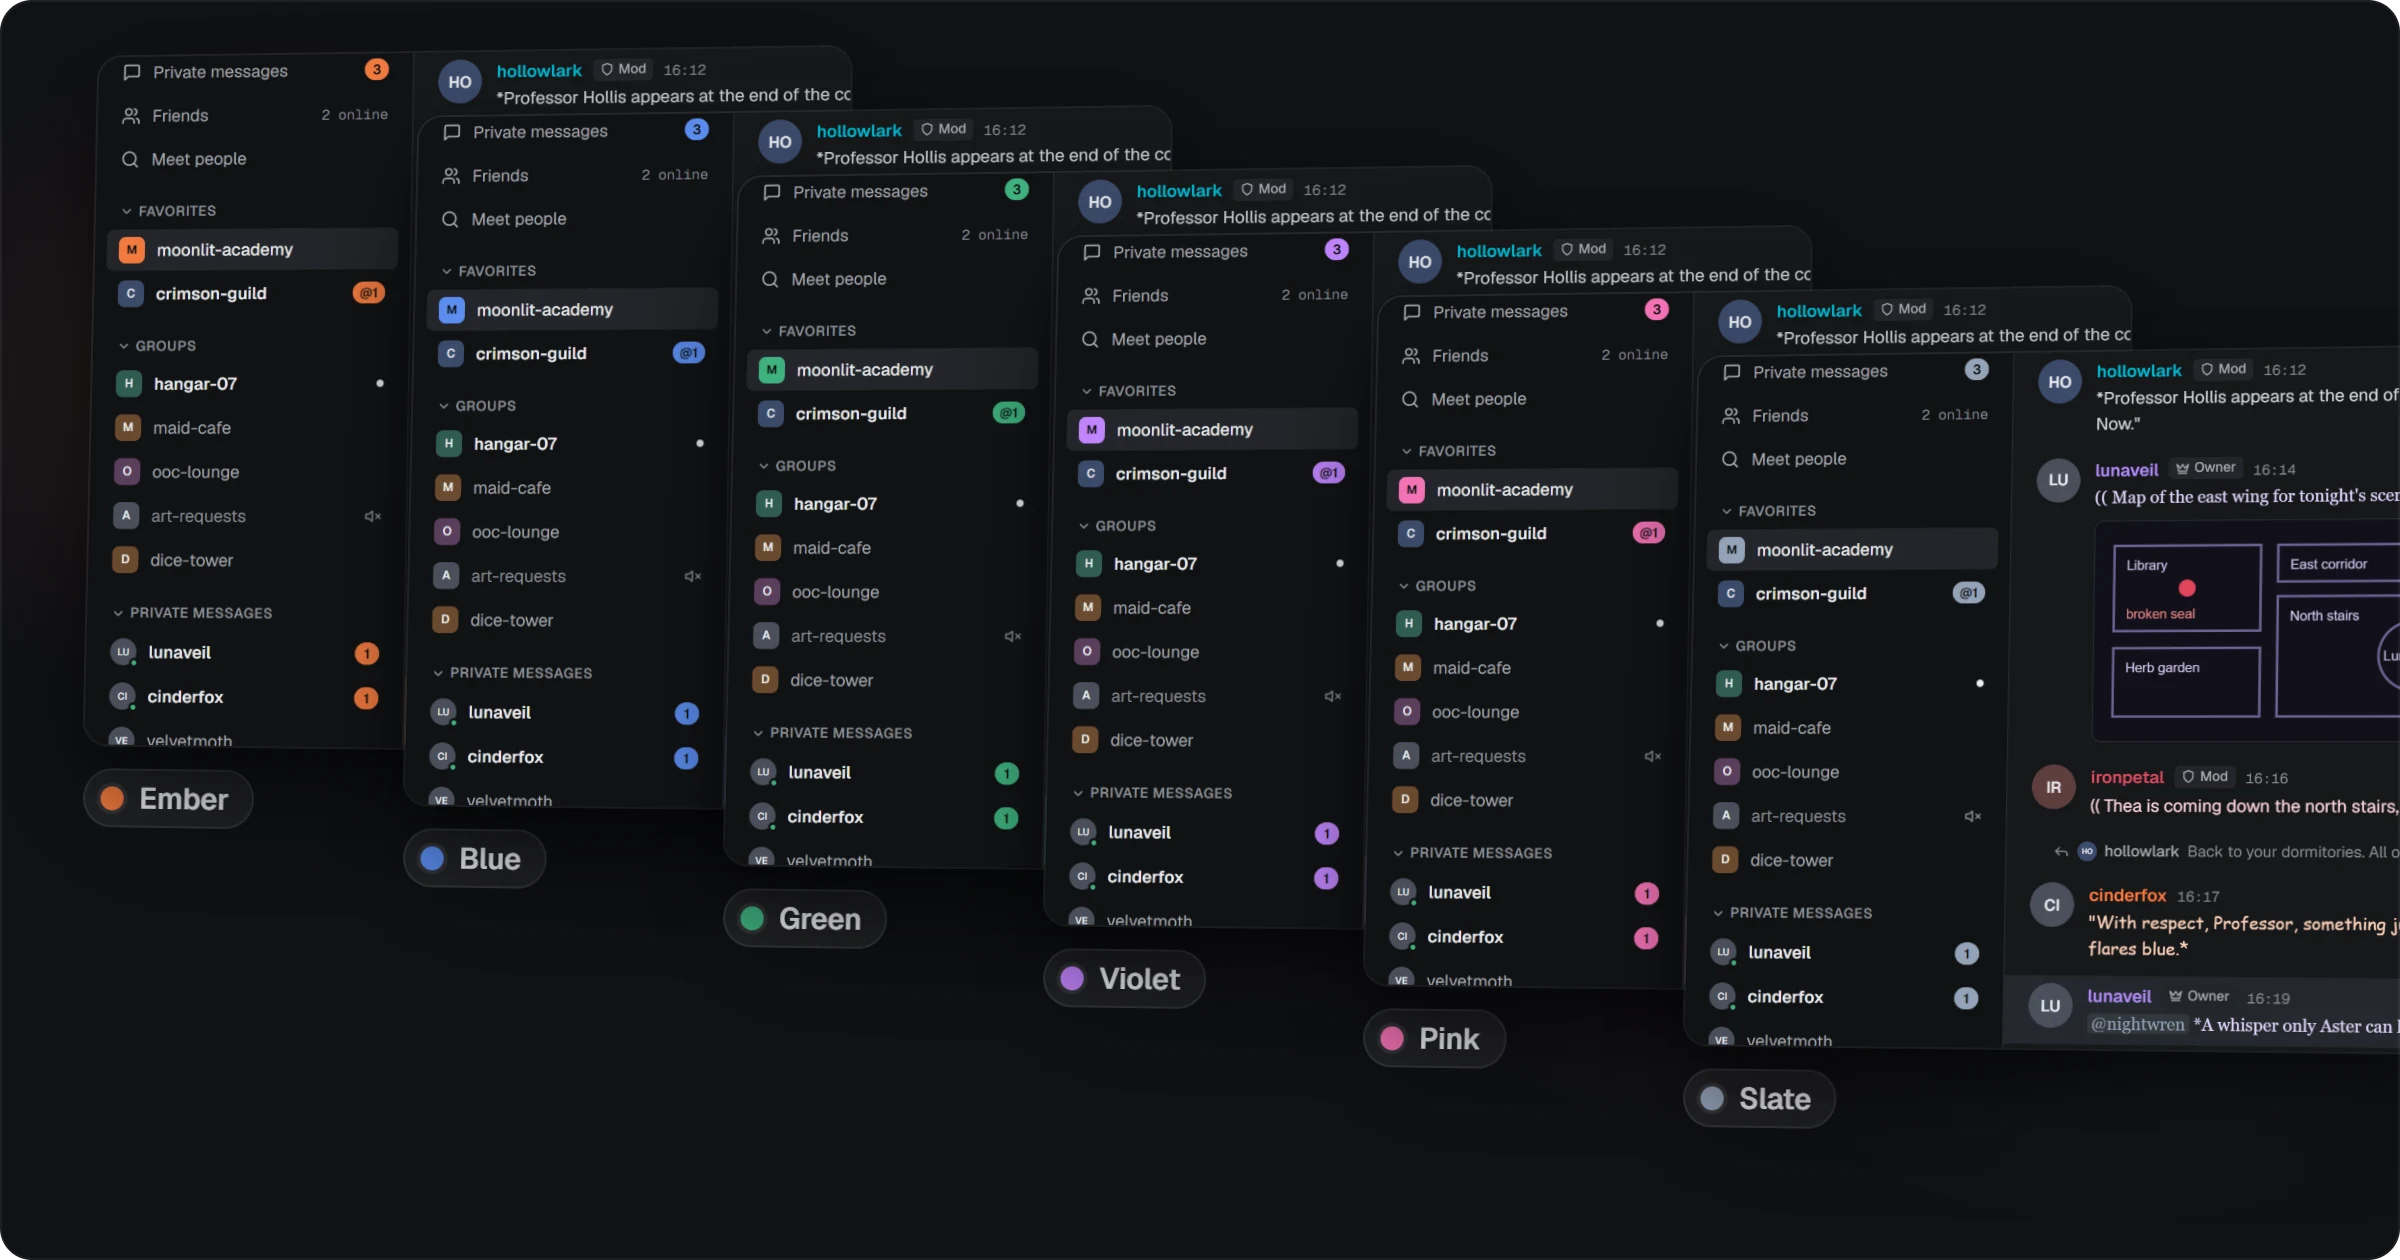
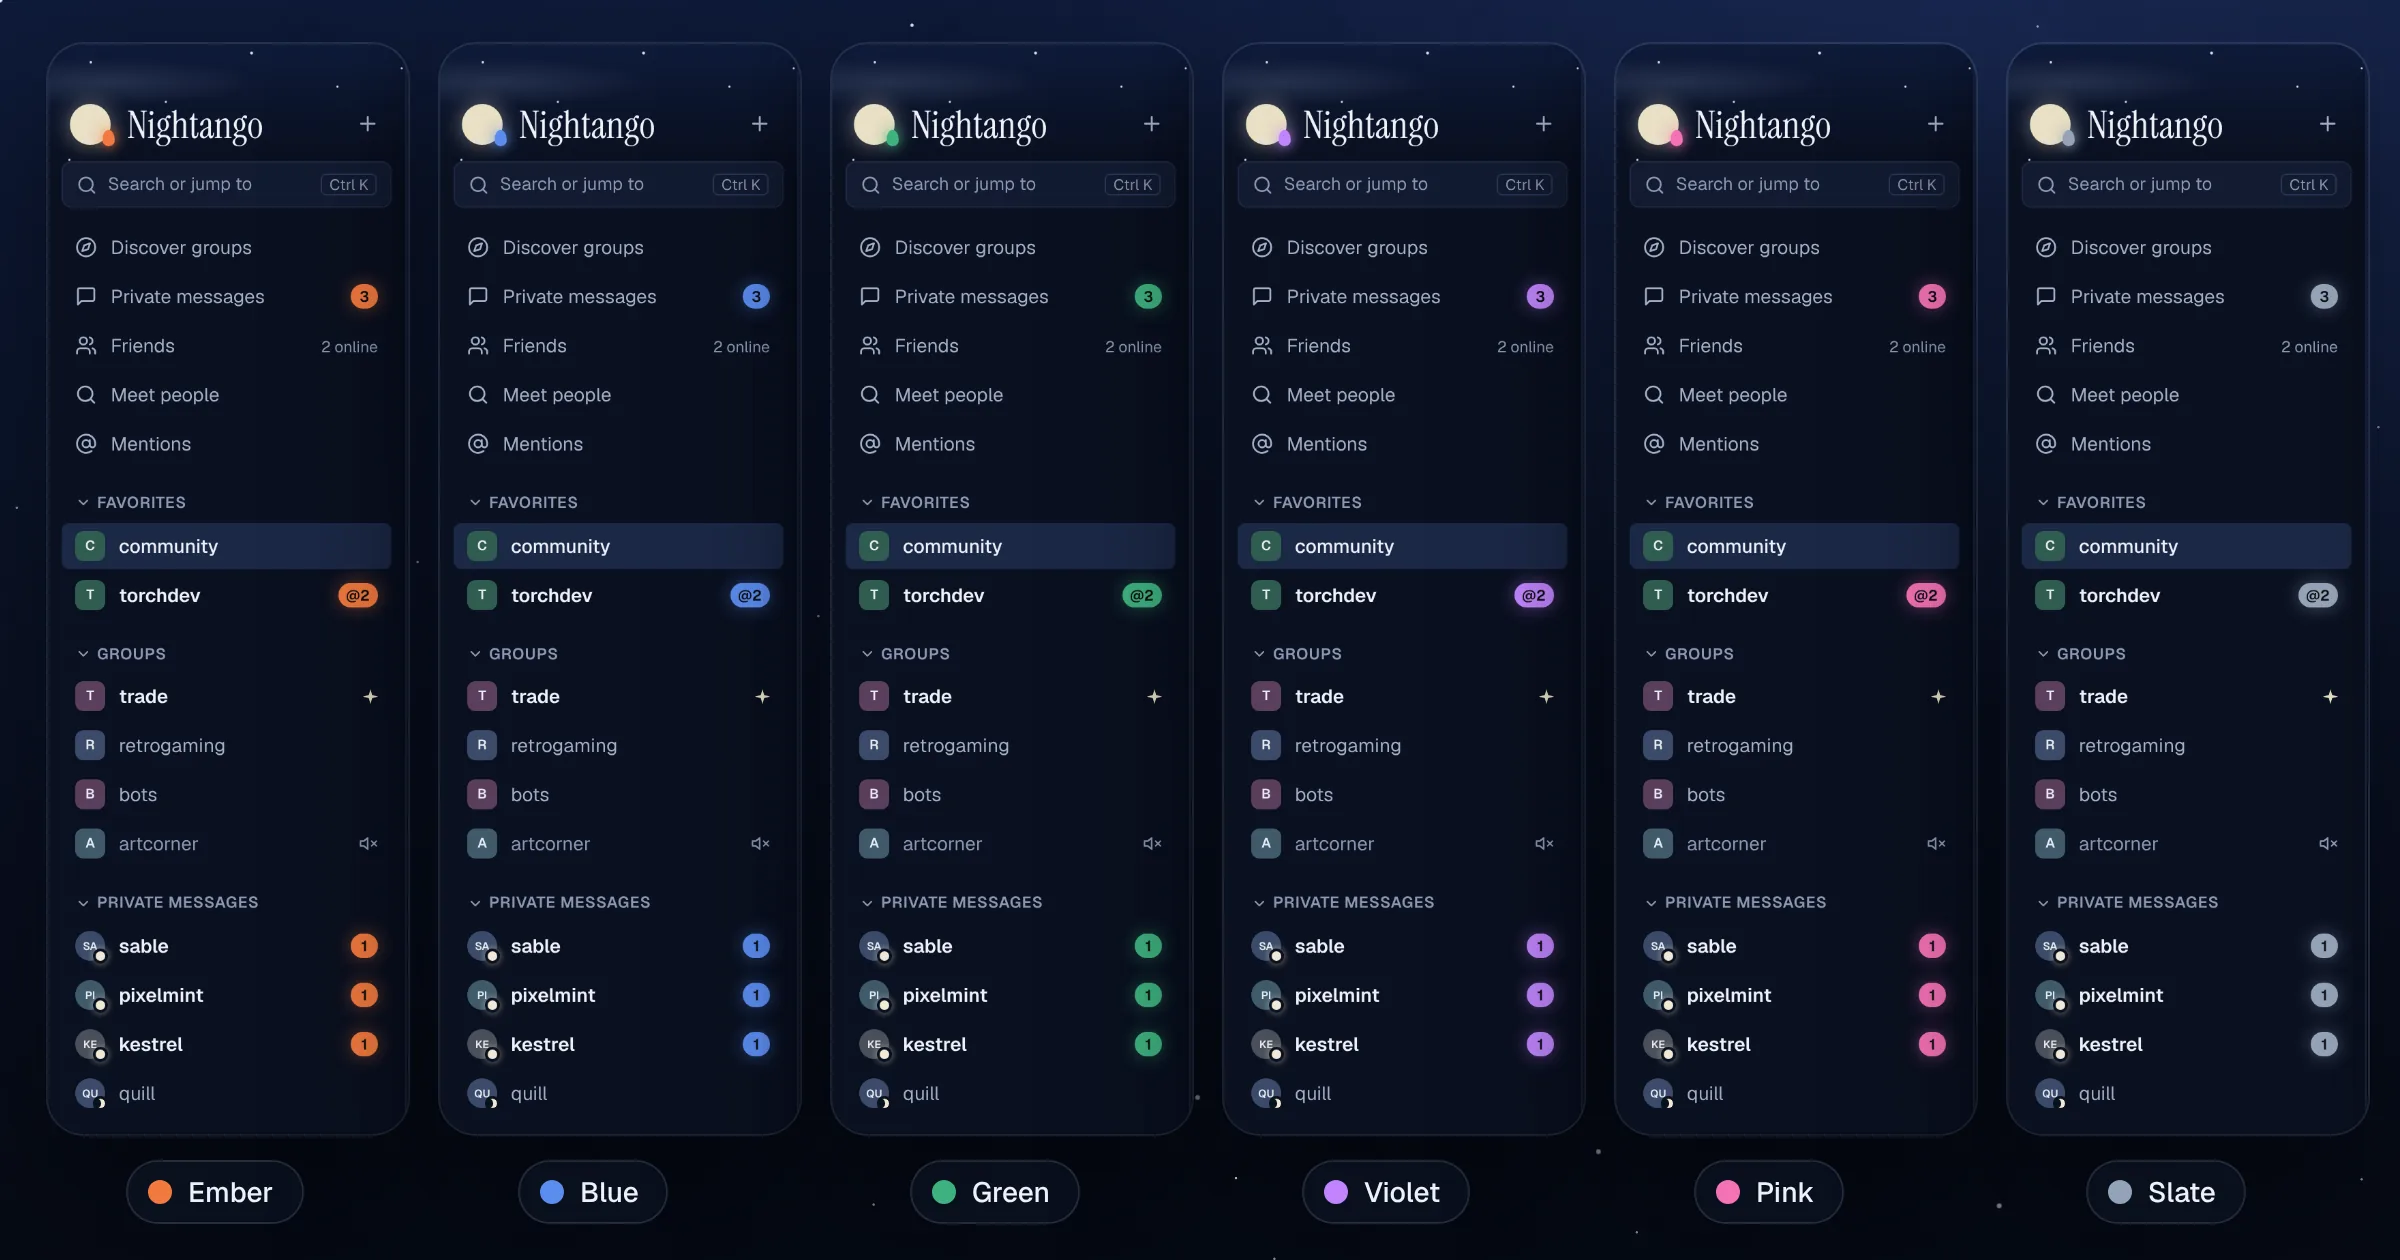
docs(readme): add the night sky section and refresh the visuals
The README gets an "A night sky" section: the real moon, moonlight and
ember, presence by moon phase, night and dawn themes. The theme and
Sky settings, the image alt texts and the embedded fonts follow the
new design.

All five screenshots are retaken from the prototype in the new theme.

diff --git a/README.md b/README.md
@@ -6,6 +6,16 @@ Nightango is a skin for [Torch](https://vissle.me), a third-party web client for
 
 You sign in on Torch's own screen. Nightango never reads your password and only sends Chatango frames that Torch or a reference library already uses.
 
+## A night sky
+
+Nightango is themed after a full-moon night with scattered clouds, and a torch under it.
+
+- **The real moon.** The moon in the corner is tonight's moon, at its real phase, computed on your device. Every day divider in a conversation shows the moon of that night.
+- **Two lights.** Cool moonlight frames the interface. Warm ember, the torch, marks only what asks for you: unread counts, mentions, the send button.
+- **Presence by moon phase.** Online is a full moon, idle a crescent, offline a new moon. The shape tells the status, so it reads without relying on color.
+- **Night and dawn.** The dark theme is the night sky. The light theme is the same sky at first light.
+- Conversations always sit on solid panels. The sky stays around them.
+
 ## Features
 
 **Group chats**
@@ -31,19 +41,20 @@ You sign in on Torch's own screen. Nightango never reads your password and only 
 **Mobile**
 - Group info and member list in a full-screen sheet, channel picker next to the message box, pull to refresh in Meet people.
 
-![Group chat in dark and light themes](docs/readme/themes.webp)
+![Group chat in the night and dawn themes](docs/readme/themes.webp)
 
 ![Group chat, group info and friends list on a phone](docs/readme/mobile.webp)
 
-![A Premium member's profile card](docs/readme/profile.webp)
+![A member's profile card](docs/readme/profile.webp)
 
 ## Customisation
 
-![The same group chat in the six accent colors: Ember, Blue, Green, Violet, Pink and Slate](docs/readme/customisation.webp)
+![The navigation in the six accent colors: Ember, Blue, Green, Violet, Pink and Slate](docs/readme/customisation.webp)
 
 Everything lives in Settings > Appearance and is saved on your device.
 
-- **Theme**: dark, light, or follow the system.
+- **Theme**: night (dark), dawn (light), or follow the system.
+- **Sky**: Calm sky stops the drifting clouds. Southern hemisphere draws the moon as it looks south of the equator.
 - **Accent color**: Ember, Blue, Green, Violet, Pink, Slate, or any color you pick. Text on the accent is adjusted so it stays readable.
 - **Density**: comfortable, or compact with no avatars and the time before the name.
 - **Text size** for message text.
@@ -86,7 +97,7 @@ pnpm test live_ui     # build, then one suite
 
 ## Fonts
 
-Geist and Geist Mono are embedded in the userscript and the prototype. They are released under the SIL Open Font License 1.1: copyright notice and license in [torchds/project/fonts/OFL.txt](torchds/project/fonts/OFL.txt), copied by the build under the userscript header.
+Geist, Geist Mono and Instrument Serif are embedded in the userscript and the prototype. They are released under the SIL Open Font License 1.1: copyright notice and license in [torchds/project/fonts/OFL.txt](torchds/project/fonts/OFL.txt), copied by the build under the userscript header.
 
 ## Credits
 
